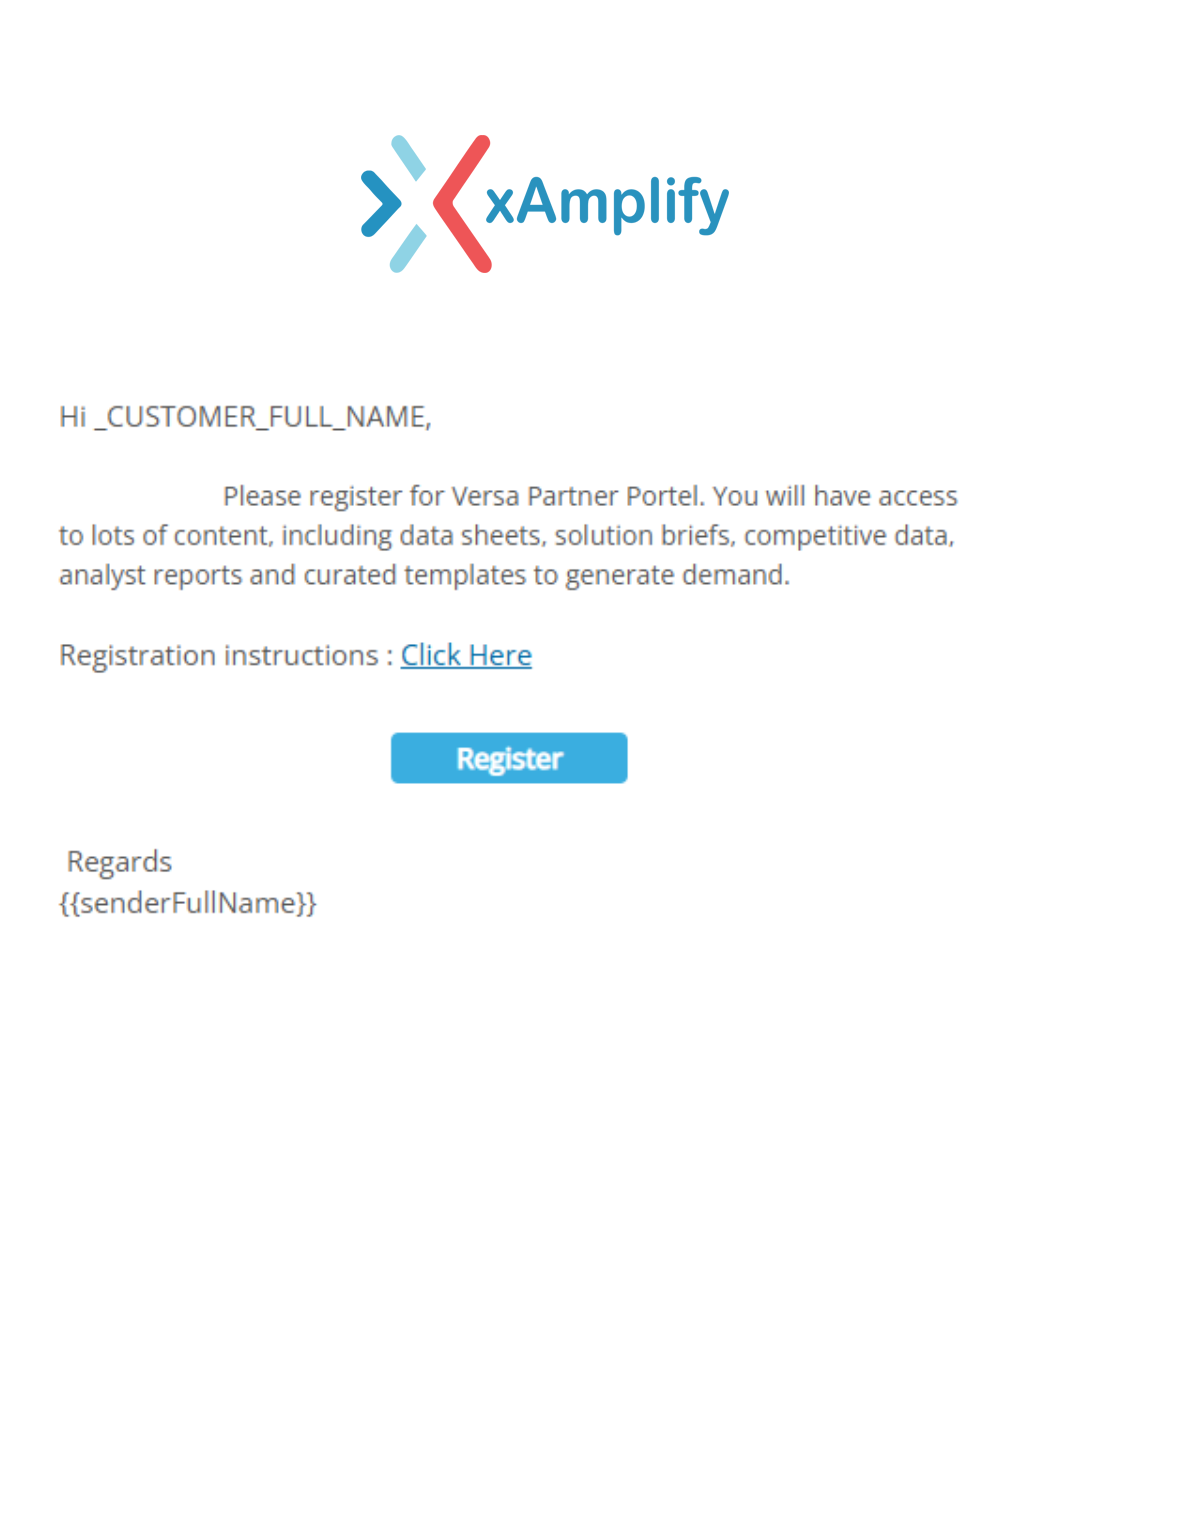
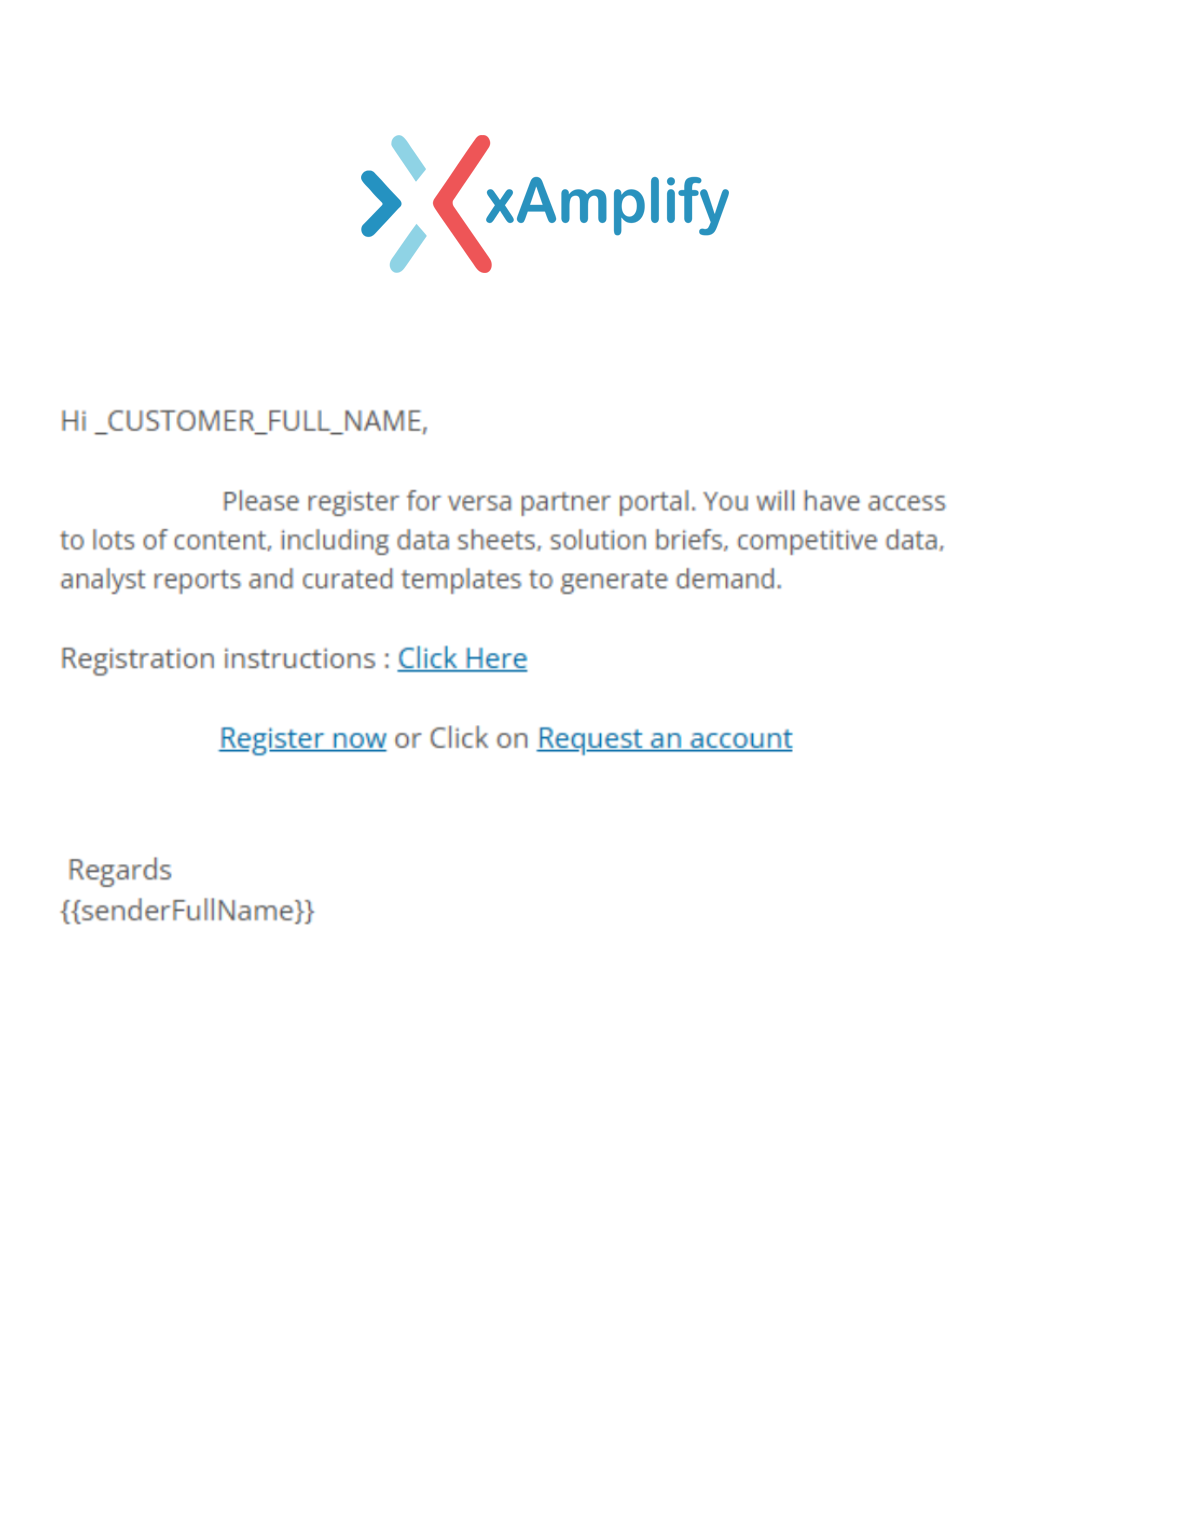
template related code changes #XNFR-805

Changed region(s): [[0.0312, 0.2479, 0.8118, 0.5267], [0.0312, 0.5577, 0.281, 0.6196]]

diff --git a/src/app/util/team-members-util/team-members-util.component.ts b/src/app/util/team-members-util/team-members-util.component.ts
@@ -1363,13 +1363,6 @@ export class TeamMembersUtilComponent implements OnInit, OnDestroy {
   }
 
   /***** XNFR-805 *****/
-  openInviteTeamMemberModal() {
-    this.loadInviteTeamMemberEmailBody();
-    this.vendorInvitation.subject = "Check out xAmplify's marketing automation platform"
-    $('#invite_team_member_modal').modal('show');
-  }
-
-  /***** XNFR-805 *****/
   closeInviteTeamMemberModal() {
     $('#invite_team_member_modal').modal('hide');
     this.inviteTeamMemberResponse = new CustomResponse();
@@ -1384,7 +1377,7 @@ export class TeamMembersUtilComponent implements OnInit, OnDestroy {
   }
 
   /***** XNFR-805 *****/
-  loadInviteTeamMemberEmailBody() {
+  openInviteTeamMemberModal() {
     this.inviteTeamMemberLoading = true;
     const templateId = this.vendorCompanyProfileName === 'versa-networks' ? 28 : 1;
     this.teamMemberService.getHtmlBody(templateId).subscribe(
@@ -1398,16 +1391,20 @@ export class TeamMembersUtilComponent implements OnInit, OnDestroy {
             this.ckeConfig.contentsCss.push(styleBlob);
           }
           this.vendorInvitation.message = htmlBody.replace(/<style[^>]*>[\s\S]*?<\/style>/gi, '');
+          this.vendorInvitation.subject = this.vendorCompanyProfileName === 'versa-networks'
+            ? data.subject : "Check out xAmplify's marketing automation platform";
         } else {
           this.vendorInvitation.message = "";
           this.inviteTeamMemberResponse = new CustomResponse('ERROR', 'Oops! something went wrong', true);
         }
         this.inviteTeamMemberLoading = false;
+        $('#invite_team_member_modal').modal('show');
       },
       error => {
         this.logger.errorPage(error);
         this.vendorInvitation.message = "";
         this.inviteTeamMemberLoading = false;
+        $('#invite_team_member_modal').modal('show');
         this.inviteTeamMemberResponse = new CustomResponse('ERROR', 'Oops! something went wrong', true);
       });
   }

diff --git a/src/app/util/xamplify-default-templates/xamplify-default-templates.component.ts b/src/app/util/xamplify-default-templates/xamplify-default-templates.component.ts
@@ -307,8 +307,9 @@ checkForDuplicates(newSubject: string, existingName: string, id:number) {
               { condition: () => emailTemplateType === "FORGOT_PASSWORD" && jsonContent.indexOf('_TEMPORARY_PASSWORD') < 0, message: "Whoops! We are unable to save this template because you deleted '_TEMPORARY_PASSWORD' tag." },
               { condition: () => emailTemplateType === "FORGOT_PASSWORD" && (jsonContent.match("<Vanity_Company_Logo_Href>") || []).length < 1, message: "Whoops! We are unable to save this template because you deleted 'Vanity_Company_Logo_Href' tag." },
               { condition: () => emailTemplateType === "ACCOUNT_ACTIVATION" && jsonContent.indexOf('<VerifyEmailLink>') < 0, message: "Whoops! We are unable to save this template because you deleted 'VerifyEmailLink' tag." },
-              { condition: () => emailTemplateType === "JOIN_VERSA_TEAM" && !jsonContent.includes('<<LoginLink>>'), message: "Whoops! We are unable to save this template because you deleted 'RegisterLink' tag." },
-              { condition: () => emailTemplateType === "JOIN_VERSA_TEAM" && !jsonContent.includes('<Registration_Document>'), message: "Whoops! We are unable to save this template because you deleted 'Registration_Document' tag." },
+              { condition: () => emailTemplateType === "JOIN_VERSA_TEAM" && !jsonContent.includes('LoginLink'), message: "Whoops! We are unable to save this template because you deleted 'RegisterLink' tag." },
+              { condition: () => emailTemplateType === "JOIN_VERSA_TEAM" && !jsonContent.includes('Registration_Document'), message: "Whoops! We are unable to save this template because you deleted 'Registration_Document' tag." },
+              { condition: () => emailTemplateType === "JOIN_VERSA_TEAM" && !jsonContent.includes('Request_Account'), message: "Whoops! We are unable to save this template because you deleted 'Request_Account' tag." },
             ]
           },
         ];

diff --git a/src/app/dashboard/vendor-request-report/vendor-request-report.component.ts b/src/app/dashboard/vendor-request-report/vendor-request-report.component.ts
@@ -106,7 +106,6 @@ export class VendorRequestReportComponent implements OnInit {
     /***** XNFR-805 *****/
     listOfRequestReports(statusType: any) {
         if (this.isTeamMemberRequest) {
-            statusType = this.getStatusType(statusType);
             this.listOfTeamMemberReports(statusType);
         } else {
             this.listOfVendorRequestReports(statusType);
@@ -129,9 +128,10 @@ export class VendorRequestReportComponent implements OnInit {
     /***** XNFR-805 *****/
     listOfTeamMemberReports(type: string) {
         this.statusType = type;
-        this.tableHeader = type + " " + this.properties.invitedTeamMeberAnalytics;
+        this.tableHeader = "INVITED" === type ? this.properties.invitedTeamMeberAnalytics
+            : type + " " + this.properties.invitedTeamMeberAnalytics;
         this.referenceService.loading(this.httpRequestLoader, true);
-        this.dashboardService.listOfTeamMemberRequestReports(type)
+        this.dashboardService.listOfTeamMemberRequestReports(this.getStatusType(type))
             .subscribe((data: any) => {
                 console.log(data);
                 if (data.inviteTeamMembers.length === 0) {
